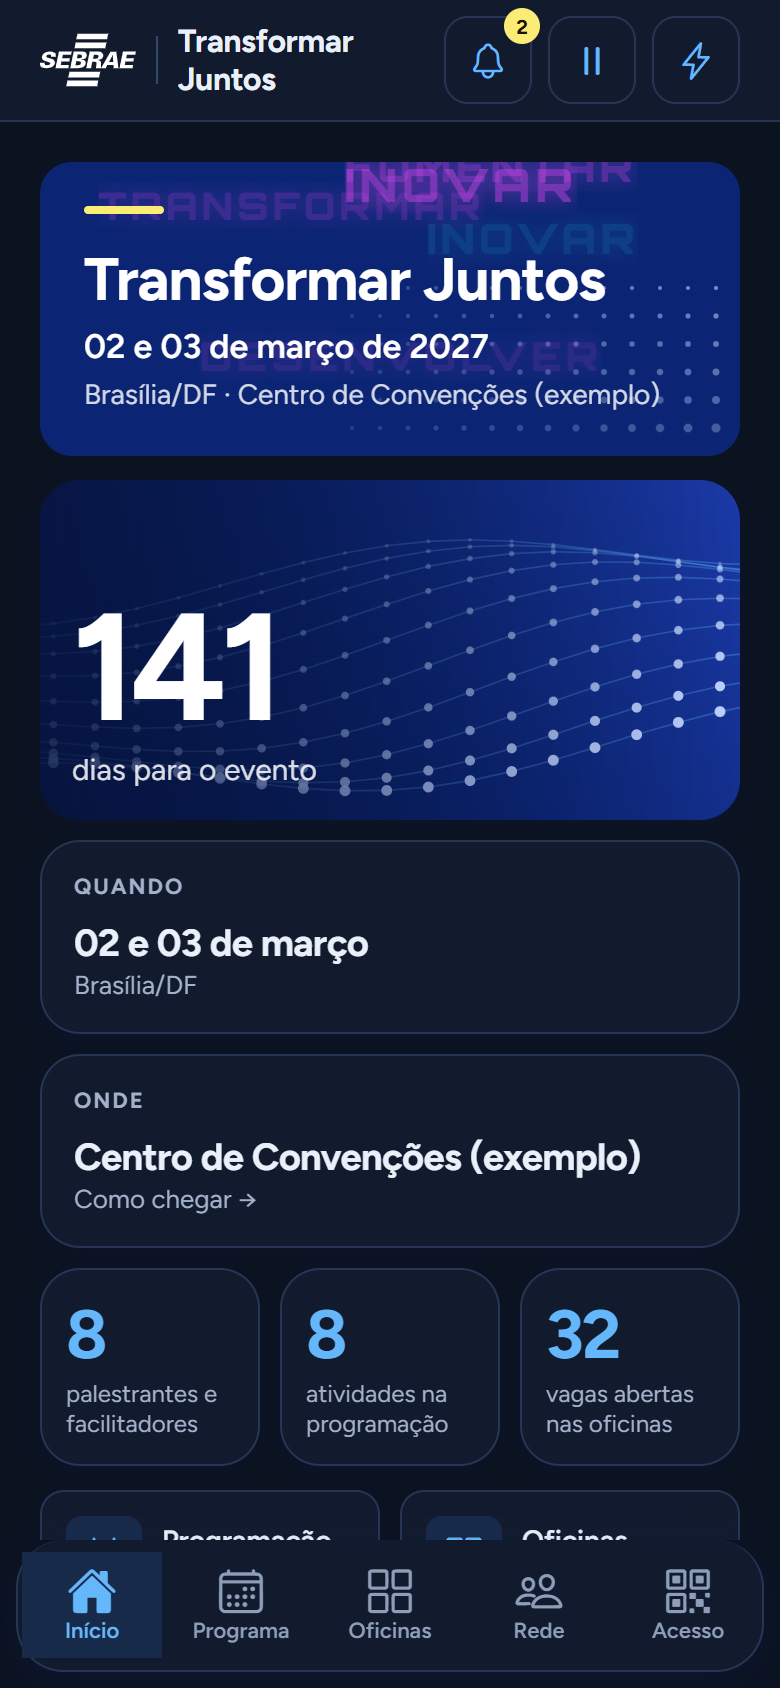
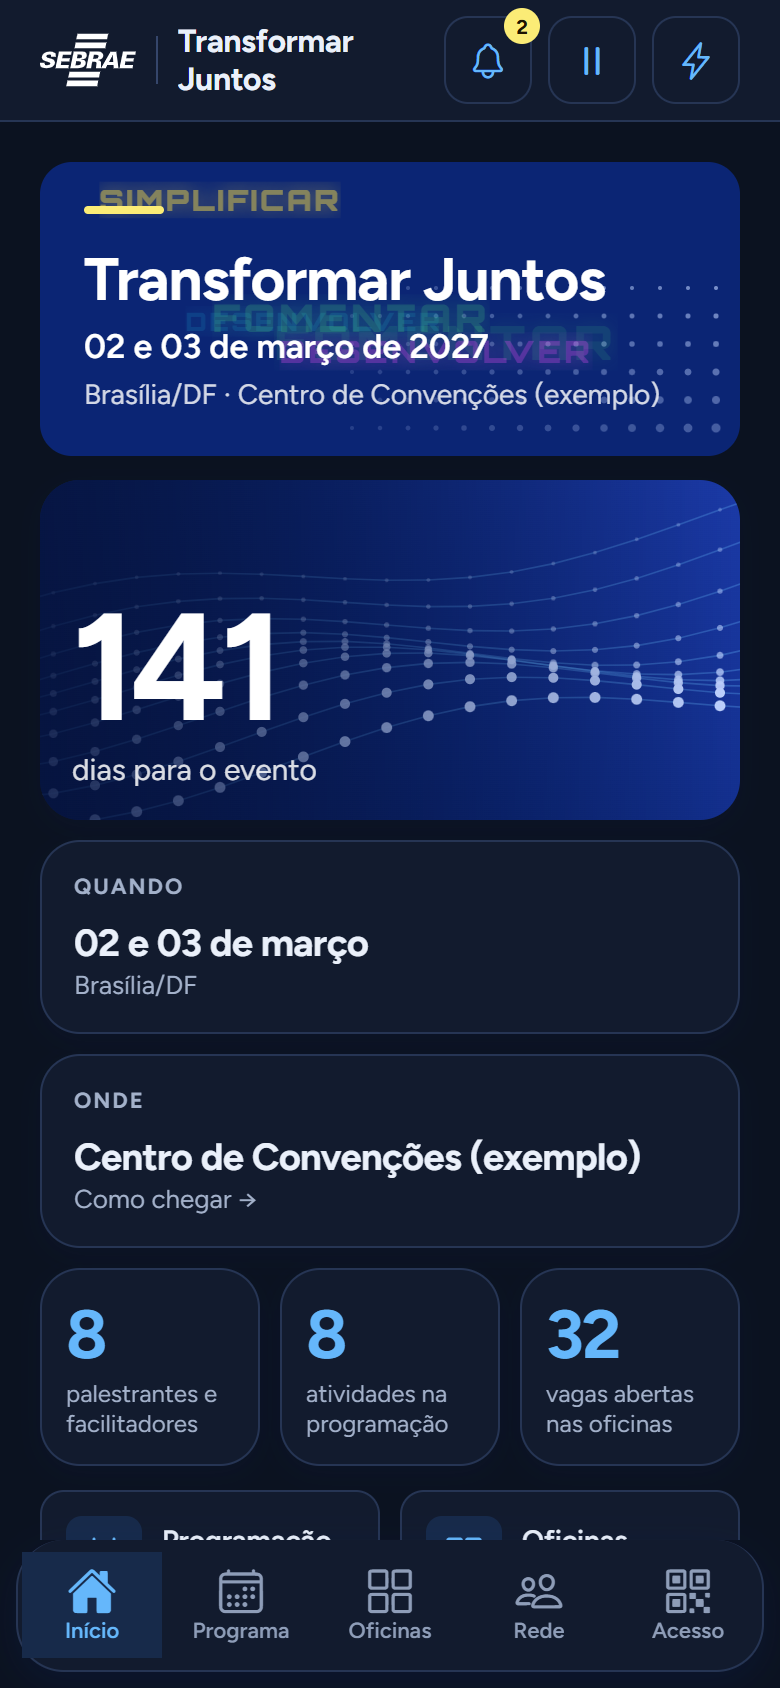
APK 2027.0.4.5 e prints do app

diff --git a/README.md b/README.md
@@ -34,9 +34,9 @@ o que a organização publica aparece na hora para o público.
 ## Baixar o app Android
 
 <!-- APK-LATEST:START -->
-**Versão mais recente: `transformar_juntos_2027.0.4.4.apk`** (app 0.4.0, gerado em 12/10/2026)
+**Versão mais recente: `transformar_juntos_2027.0.4.5.apk`** (app 0.4.5, gerado em 13/10/2026)
 
-### [Baixar o APK](https://expo.dev/artifacts/eas/RlStGku1KnyempYusx3rlbJ3jLVwB5s0Hbyv7v6Lx2s.apk)
+### [Baixar o APK](https://expo.dev/artifacts/eas/BNzu6-jsAp3RdIMqtqa1_XJ2Re3nyJ1C-48oTRq2vjM.apk)
 
 Link válido até **25/10/2026**. Depois dessa data, volte aqui: o link novo é publicado neste mesmo lugar.
 <!-- APK-LATEST:END -->
@@ -52,6 +52,7 @@ Link válido até **25/10/2026**. Depois dessa data, volte aqui: o link novo é 
 
 | Arquivo | Versão | Data | Novidades |
 |---|---|---|---|
+| `transformar_juntos_2027.0.4.5.apk` | 0.4.5 | 13/10/2026 | Tema cyberpunk igual ao do site, leitura do QR de estande corrigida |
 | `transformar_juntos_2027.0.4.4.apk` | 0.4.0 | 12/10/2026 | Botão para pausar ou ligar as animações no cabeçalho |
 | `transformar_juntos_2027.0.4.3.apk` | 0.4.0 | 12/10/2026 | Barra de abas acima dos botões do Android |
 | `transformar_juntos_2027.0.4.2.apk` | 0.4.0 | 12/10/2026 | Tema cyberpunk com linhas de luz deslizantes (site e painel), dependências conferidas |
